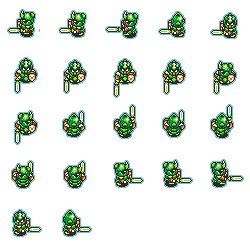
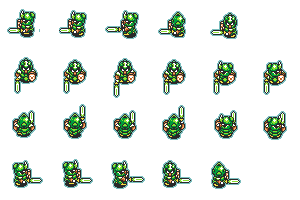
GreenSoldier

diff --git a/js/models/GreenSoldier.js b/js/models/GreenSoldier.js
@@ -1,0 +1,123 @@
+"use strict";
+
+/*jslint browser: true, devel: true, white: true*/
+
+/************************************************************************\
+
+ Character - "inherits" from Entity
+ Keeps track of the main character and it's stats and actions
+
+\************************************************************************/
+
+function GreenSoldier(sprite) {
+
+    this._interval = 200; // time beetween frames in ms
+
+    // rotations
+    this.FACE_RIGHT = 0;
+    this.FACE_UP    = 1;
+    this.FACE_LEFT  = 2;
+    this.FACE_DOWN  = 3;
+
+    // states
+    this.HALT = 0;
+    this.ATTACKING = 1;
+    this.WALKING = 2;
+
+    // initialize
+    this._rotation = this.FACE_DOWN;
+    this._state = this.HALT;
+    this._frozen = false;
+
+    // animation matrix
+    var frameSize = ANIMATION_FRAME_SIZE;
+    this._animations = [[],[],[],[]];
+
+    this._animations[this.FACE_LEFT][this.HALT] =
+        new Animation(sprite, frameSize * 0, frameSize * 0, 1);
+    this._animations[this.FACE_DOWN][this.HALT] =
+        new Animation(sprite, frameSize * 0, frameSize * 1, 1);
+    this._animations[this.FACE_UP][this.HALT] =
+        new Animation(sprite, frameSize * 0, frameSize * 2, 1);
+    this._animations[this.FACE_RIGHT][this.HALT] =
+        new Animation(sprite, frameSize * 0, frameSize * 3, 1);
+    
+    this._animations[this.FACE_LEFT][this.WALKING] =
+        new Animation(sprite, frameSize * 0, frameSize * 0, 4, 200);
+    this._animations[this.FACE_DOWN][this.WALKING] =
+        new Animation(sprite, frameSize * 0, frameSize * 1, 5, 200);
+    this._animations[this.FACE_UP][this.WALKING] =
+        new Animation(sprite, frameSize * 0, frameSize * 2, 5, 200);
+    this._animations[this.FACE_RIGHT][this.WALKING] =
+        new Animation(sprite, frameSize * 0, frameSize * 3, 4, 200);
+    
+    this._animations[this.FACE_LEFT][this.ATTACKING] =
+        new Animation(sprite, frameSize * 0, frameSize * 0, 4, 50);
+    this._animations[this.FACE_DOWN][this.ATTACKING] =
+        new Animation(sprite, frameSize * 0, frameSize * 1, 5, 50);
+    this._animations[this.FACE_UP][this.ATTACKING] =
+        new Animation(sprite, frameSize * 0, frameSize * 2, 5, 50);
+    this._animations[this.FACE_RIGHT][this.ATTACKING] =
+        new Animation(sprite, frameSize * 0, frameSize * 3, 4, 50);
+    
+
+    this._activeAnimation = this._animations[this._rotation][this._state];
+
+}
+
+// GreenSoldier.prototype = new Model();
+
+GreenSoldier.prototype.update = function(du) {
+
+    var finishedAnimation = this._activeAnimation.update(du);
+    if (this._frozen) this._frozen = !finishedAnimation;
+    else this._activeAnimation = this._animations[this._rotation][this._state];
+};
+
+GreenSoldier.prototype.drawCentredAt = function(ctx, cx, cy) {
+    this._activeAnimation.drawCentredAt(ctx, cx, cy);
+};
+
+GreenSoldier.prototype._setState = function(state) {
+    if (this._state === state || this._frozen ) return;
+    this._state = state;
+};
+
+GreenSoldier.prototype._setRotation = function(rotation) {
+    if (this._rotation === rotation || this._frozen ) return;
+    this._rotation = rotation;
+};
+
+GreenSoldier.prototype._freezInState = function() {
+    this._activeAnimation = this._animations[this._rotation][this._state];
+    this._frozen = true;
+};
+
+GreenSoldier.prototype.faceUp = function() {
+    this._setRotation(this.FACE_UP);
+};
+
+GreenSoldier.prototype.faceDown = function() {
+    this._setRotation(this.FACE_DOWN);
+};
+
+GreenSoldier.prototype.faceLeft = function() {
+    this._setRotation(this.FACE_LEFT);
+};
+
+GreenSoldier.prototype.faceRight = function() {
+    this._setRotation(this.FACE_RIGHT);
+};
+
+GreenSoldier.prototype.halt = function() {
+    this._setState(this.HALT);
+};
+
+GreenSoldier.prototype.attack = function() {
+    this._setState(this.ATTACKING);
+    this._freezInState();
+};
+
+GreenSoldier.prototype.walk = function() {
+    this._setState(this.WALKING);
+};

diff --git a/js/BINKLEBARD.js b/js/BINKLEBARD.js
@@ -94,7 +94,8 @@ function requestPreloads() {
 
         terrain          : "img/terrain.png",
         link             : "img/link_alpha.png",
-        sparcles         : "img/Sparcles.png"
+        sparcles         : "img/Sparcles.png",
+        greenSoldier     : "img/greenMonster.png"
     };
 
     imagesPreload(requiredImages, g_images, preloadDone);
@@ -105,8 +106,11 @@ var g_sprites = {};
 function preloadDone() {
 
     
-    g_sprites.link    = new Sprite(g_images.link);
+    g_sprites.link = new Sprite(g_images.link);
     g_sprites.link.scale = 2;
+
+    g_sprites.greenSoldier = new Sprite(g_images.greenSoldier);
+    g_sprites.greenSoldier.scale = 2;
 
     g_sprites.terrain  = new Sprite(g_images.terrain);
     g_sprites.sparcles = new Sprite(g_images.sparcles);

diff --git a/js/entities/entityManager.js b/js/entities/entityManager.js
@@ -26,7 +26,7 @@ var entityManager = {
             NUM_SOLDIERS = num;
 
         for (i = 0; i < NUM_SOLDIERS; ++i) {
-            greenSoldier = new Humanoid(g_sprites.link);
+            greenSoldier = new GreenSoldier(g_sprites.greenSoldier);
             this.generateSoldier({model: greenSoldier});
         }
     },

diff --git a/index.html b/index.html
@@ -40,6 +40,7 @@
         <script src="./js/assets/Animation.js"></script>
 
         <script src="./js/models/Humanoid.js"></script>
+        <script src="./js/models/greenSoldier.js"></script>
         
         <!-- game specific stuff -->
         <script src="./map-editor/EDITOR.js"></script>
